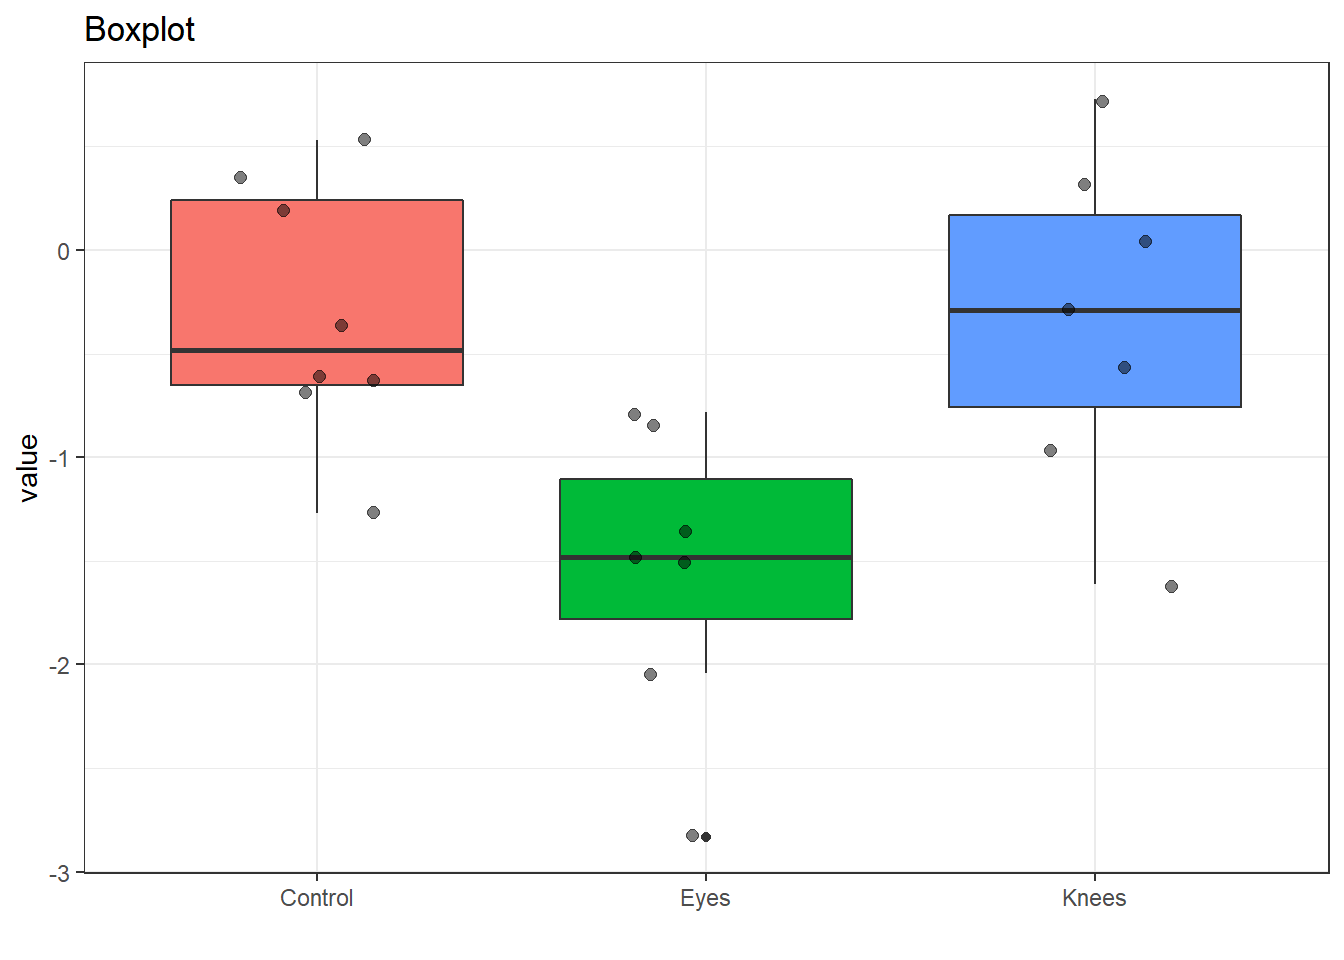
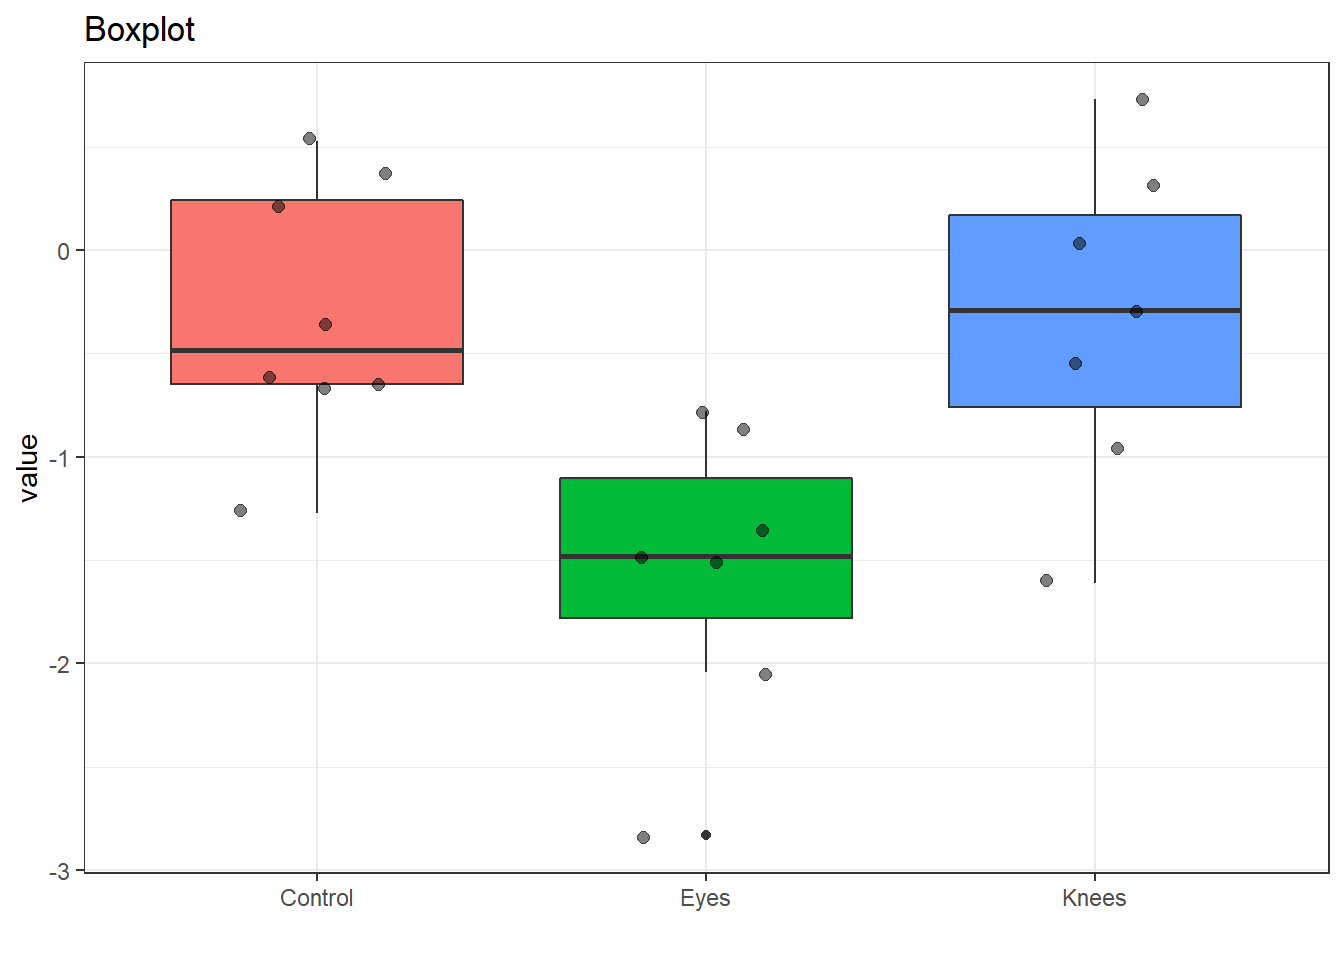
resources page v1

diff --git a/docs/helpful_links.html b/docs/helpful_links.html
@@ -7,7 +7,7 @@
 <meta name="viewport" content="width=device-width, initial-scale=1.0, user-scalable=yes">
 
 
-<title>Ryan Keeney - About</title>
+<title>Ryan Keeney - Resources and Links</title>
 <style>
 code{white-space: pre-wrap;}
 span.smallcaps{font-variant: small-caps;}
@@ -33,7 +33,6 @@ ul.task-list li input[type="checkbox"] {
 <script src="site_libs/quarto-html/quarto.js"></script>
 <script src="site_libs/quarto-html/popper.min.js"></script>
 <script src="site_libs/quarto-html/tippy.umd.min.js"></script>
-<script src="site_libs/quarto-html/anchor.min.js"></script>
 <link href="site_libs/quarto-html/tippy.css" rel="stylesheet">
 <link href="site_libs/quarto-html/quarto-syntax-highlighting.css" rel="stylesheet" class="quarto-color-scheme" id="quarto-text-highlighting-styles">
 <link href="site_libs/quarto-html/quarto-syntax-highlighting-dark.css" rel="prefetch" class="quarto-color-scheme quarto-color-alternate" id="quarto-text-highlighting-styles">
@@ -65,13 +64,13 @@ ul.task-list li input[type="checkbox"] {
 <link rel="stylesheet" href="styles.css">
 </head>
 
-<body class="nav-sidebar docked">
+<body class="nav-sidebar docked fullcontent">
 
 <div id="quarto-search-results"></div>
   <header id="quarto-header" class="headroom fixed-top">
   <nav class="quarto-secondary-nav" data-bs-toggle="collapse" data-bs-target="#quarto-sidebar" aria-controls="quarto-sidebar" aria-expanded="false" aria-label="Toggle sidebar navigation" onclick="if (window.quartoToggleHeadroom) { window.quartoToggleHeadroom(); }">
     <div class="container-fluid d-flex justify-content-between">
-      <h1 class="quarto-secondary-nav-title">About</h1>
+      <h1 class="quarto-secondary-nav-title">Resources and Links</h1>
       <button type="button" class="quarto-btn-toggle btn" aria-label="Show secondary navigation">
         <i class="bi bi-chevron-right"></i>
       </button>
@@ -100,6 +99,11 @@ ul.task-list li input[type="checkbox"] {
         <li class="sidebar-item">
   <div class="sidebar-item-container"> 
   <a href="./index.html" class="sidebar-item-text sidebar-link">About</a>
+  </div>
+</li>
+        <li class="sidebar-item">
+  <div class="sidebar-item-container"> 
+  <a href="./helpful_links.html" class="sidebar-item-text sidebar-link active">Resources and Links</a>
   </div>
 </li>
         <li class="sidebar-item sidebar-item-section">
@@ -162,33 +166,86 @@ ul.task-list li input[type="checkbox"] {
     </div>
 </nav>
 <!-- margin-sidebar -->
-    <div id="quarto-margin-sidebar" class="sidebar margin-sidebar">
-        
-    </div>
+    
 <!-- main -->
-<main class="content" id="quarto-document-content">
-
-<header id="title-block-header" class="quarto-title-block default">
+<div class="quarto-about-solana column-body">
+  <div class="about-entity">
+    <div class="entity-contents">
+      <header id="title-block-header" class="quarto-title-block default">
 <div class="quarto-title">
-<h1 class="title d-none d-lg-block">About</h1>
+<h1 class="title d-none d-lg-block">Resources and Links</h1>
 </div>
-
-
-
 <div class="quarto-title-meta">
-
-    
-    
   </div>
-  
+</header> <div class="about-links">
+  <a href="https://www.linkedin.com/in/ryan-brent-keeney/" class="about-link">
+     <span class="about-link-text">LinkedIn</span>
+  </a>
+  <a href="https://twitter.com/rbkeeney" class="about-link">
+     <span class="about-link-text">Twitter</span>
+  </a>
+  <a href="https://github.com/rbkeeney1" class="about-link">
+     <span class="about-link-text">GitHub</span>
+  </a>
+  <a href="mailto:keeney.ryan@gmail.com" class="about-link">
+     <span class="about-link-text">Email</span>
+  </a>
+</div>
+      <div class="about-contents"><main class="content" id="quarto-document-content">
+<div id="hero-heading">
+<p>If you would like to make a suggestion, please contact me through one of the links above.</p>
+</div>
+<section id="data-science-resources" class="level2">
+<h2 data-anchor-id="data-science-resources">Data Science Resources</h2>
+<p><a href="https://www.statlearning.com/">An Introduction to Statistical Learning</a></p>
+<p><a href="https://hastie.su.domains/Papers/ESLII.pdf">The Elements of Statistical Learning</a></p>
+<p><a href="https://cs.nyu.edu/~mohri/mlbook/">Foundations of Machine Learning</a></p>
+</section>
+<section id="r-resources" class="level2">
+<h2 data-anchor-id="r-resources">R Resources</h2>
+<p><a href="http://www.cookbook-r.com/">R cookbook</a></p>
+<p><a href="https://r4ds.had.co.nz/">R for Data Science</a></p>
+<p><a href="https://mastering-shiny.org/index.html">Mastering Shiny</a></p>
+</section>
+<section id="python-resources" class="level2">
+<h2 data-anchor-id="python-resources">Python Resources</h2>
+<p><a href="https://jakevdp.github.io/WhirlwindTourOfPython/">A Whirlwind Tour of Python, by Jake VanderPlas</a> A solid introduction to Python, assuming you are already familiar with another programming language.</p>
+<p><a href="https://jakevdp.github.io/PythonDataScienceHandbook/">Python Data Science Handbook</a></p>
+<p><a href="https://pythex.org/">Pythex | In-browser regex tester</a></p>
+</section>
+<section id="data-visualization-resources" class="level2">
+<h2 data-anchor-id="data-visualization-resources">Data Visualization Resources</h2>
+<p><a href="https://www.data-to-viz.com/">From Data to Viz</a>. A fantastic guide to all types of plots by Yan Holtz and Conor Healy. Also check out their <a href="https://www.dataviz-inspiration.com/">Dataviz Inspiration</a> page.</p>
+<p><a href="https://bbc.github.io/rcookbook/#how_to_create_bbc_style_graphics">BBC Visual and Data Journalism cookbook for R graphics</a></p>
+<p><a href="https://cedricscherer.netlify.app/top/dataviz/">Cedric Scherer’s Data Visualization &amp; Information Design</a></p>
+</section>
+<section id="data-engineering-resources" class="level2">
+<h2 data-anchor-id="data-engineering-resources">Data Engineering Resources</h2>
+<p><a href="https://www.charlesbordet.com/en/guide-shiny-aws/#">The Ultimate Guide to Deploying a Shiny App on AWS, by Charles Bordet</a>. I personally used the guide to launch my own EC2 servers.</p>
+<p><a href="https://ohshitgit.com/">Oh Shit, Git!?!</a> You’ve messed up. Bad. This resource might just save you.</p>
+<p><a href="https://www.khanacademy.org/computing/computer-programming/sql">Intro to SQL: Querying and managing data</a></p>
+</section>
+<section id="math-resources" class="level2">
+<h2 data-anchor-id="math-resources">Math Resources</h2>
+<p><a href="https://statbook.gatech.edu/statb4.pdf">Engineering Biostatistics: An Introduction Using MATLAB and WinBUGS by Brani Vidakovic</a>. Excellent resources for Bayesian statistics, MATLAB and WinBugs.</p>
+<p><a href="https://www.wolframalpha.com/">Wolframe|Alpha</a>. Powerful in-browser computational aid.</p>
+<p><a href="https://www.symbolab.com/">Symbolab</a>. Another powerful in-browser computational aid. Usually provides steps to solve problems at no extra cost.</p>
+<p><a href="https://octave-online.net/">Octave</a>. Open source software to run those pesky .m scripts (Free alternative to MatLab)</p>
+<p><a href="https://www.mrc-bsu.cam.ac.uk/software/bugs/openbugs/">OpenBUGS</a>. Free Bayesian software. I prefer to use R or Python.</p>
+<p><a href="https://calculusmadeeasy.org/">Calculus Made Easy by S. P. Thompson</a></p>
+<p><a href="https://mml-book.github.io/book/mml-book.pdf">Mathematics for Machine Learning</a></p>
+<p><a href="The%20Matrix%20Cookbook">The Matrix Cookbook</a></p>
+<p><a href="https://web.stanford.edu/~boyd/vmls/vmls.pdf">Introduction to Applied Linear Algebra</a></p>
 
-</header>
 
-<p>About this site</p>
-
-
-
-</main> <!-- /main -->
+</section>
+</main></div>
+    </div>
+    <img src="headshot.png" class="about-image
+  rounded " style="width: 15em;">
+  </div>
+</div>
+ <!-- /main -->
 <script id="quarto-html-after-body" type="application/javascript">
 window.document.addEventListener("DOMContentLoaded", function (event) {
   const toggleBodyColorMode = (bsSheetEl) => {
@@ -322,13 +379,6 @@ window.document.addEventListener("DOMContentLoaded", function (event) {
   if (hasAlternateSentinel()) {
     toggleColorMode(true);
   } 
-  const icon = "";
-  const anchorJS = new window.AnchorJS();
-  anchorJS.options = {
-    placement: 'right',
-    icon: icon
-  };
-  anchorJS.add('.anchored');
   const clipboard = new window.ClipboardJS('.code-copy-button', {
     target: function(trigger) {
       return trigger.previousElementSibling;

diff --git a/docs/posts/anova_introduction.html b/docs/posts/anova_introduction.html
@@ -167,6 +167,11 @@ code span.wa { color: #60a0b0; font-weight: bold; font-style: italic; } /* Warni
   <a href="../index.html" class="sidebar-item-text sidebar-link">About</a>
   </div>
 </li>
+        <li class="sidebar-item">
+  <div class="sidebar-item-container"> 
+  <a href="../helpful_links.html" class="sidebar-item-text sidebar-link">Resources and Links</a>
+  </div>
+</li>
         <li class="sidebar-item sidebar-item-section">
       <div class="sidebar-item-container"> 
             <a class="sidebar-item-text sidebar-link text-start" data-bs-toggle="collapse" data-bs-target="#quarto-sidebar-section-1" aria-expanded="true">NLP</a>
@@ -328,11 +333,11 @@ code span.wa { color: #60a0b0; font-weight: bold; font-style: italic; } /* Warni
 <p>Running an ANOVA data in R results in the following output. You can read the “treatments” as the “between” variability and the “error” as the “within” variability - the ratio between the two are then compared in the F-test.</p>
 <table class="table">
 <colgroup>
-<col style="width: 15%">
-<col style="width: 12%">
-<col style="width: 19%">
 <col style="width: 17%">
-<col style="width: 17%">
+<col style="width: 7%">
+<col style="width: 22%">
+<col style="width: 20%">
+<col style="width: 20%">
 <col style="width: 12%">
 </colgroup>
 <thead>
@@ -375,12 +380,12 @@ code span.wa { color: #60a0b0; font-weight: bold; font-style: italic; } /* Warni
 <p>For reference, here is the same table with the parameters named.</p>
 <table class="table">
 <colgroup>
-<col style="width: 13%">
-<col style="width: 11%">
-<col style="width: 17%">
-<col style="width: 22%">
+<col style="width: 14%">
+<col style="width: 8%">
 <col style="width: 18%">
-<col style="width: 11%">
+<col style="width: 23%">
+<col style="width: 19%">
+<col style="width: 10%">
 </colgroup>
 <thead>
 <tr class="header">
@@ -486,11 +491,11 @@ code span.wa { color: #60a0b0; font-weight: bold; font-style: italic; } /* Warni
 <pre><code># A tibble: 5 x 2
   name    value
   &lt;chr&gt;   &lt;dbl&gt;
-1 Control  0.53
-2 Control -0.37
-3 Control  0.2 
-4 Knees    0.73
-5 Eyes    -0.78</code></pre>
+1 Control  0.36
+2 Control -0.68
+3 Control  0.53
+4 Knees   -0.56
+5 Eyes    -1.48</code></pre>
 </div>
 </div>
 <p>With this done, we can quickly check the means.</p>

diff --git a/docs/posts/ISOMAP_faces.html b/docs/posts/ISOMAP_faces.html
@@ -166,6 +166,11 @@ code span.wa { color: #60a0b0; font-weight: bold; font-style: italic; } /* Warni
   <a href="../index.html" class="sidebar-item-text sidebar-link">About</a>
   </div>
 </li>
+        <li class="sidebar-item">
+  <div class="sidebar-item-container"> 
+  <a href="../helpful_links.html" class="sidebar-item-text sidebar-link">Resources and Links</a>
+  </div>
+</li>
         <li class="sidebar-item sidebar-item-section">
       <div class="sidebar-item-container"> 
             <a class="sidebar-item-text sidebar-link text-start" data-bs-toggle="collapse" data-bs-target="#quarto-sidebar-section-1" aria-expanded="true">NLP</a>

diff --git a/docs/posts/PCA_eu_food.html b/docs/posts/PCA_eu_food.html
@@ -169,6 +169,11 @@ code span.wa { color: #60a0b0; font-weight: bold; font-style: italic; } /* Warni
   <a href="../index.html" class="sidebar-item-text sidebar-link">About</a>
   </div>
 </li>
+        <li class="sidebar-item">
+  <div class="sidebar-item-container"> 
+  <a href="../helpful_links.html" class="sidebar-item-text sidebar-link">Resources and Links</a>
+  </div>
+</li>
         <li class="sidebar-item sidebar-item-section">
       <div class="sidebar-item-container"> 
             <a class="sidebar-item-text sidebar-link text-start" data-bs-toggle="collapse" data-bs-target="#quarto-sidebar-section-1" aria-expanded="true">NLP</a>

diff --git a/docs/posts/avatar_vader.html b/docs/posts/avatar_vader.html
@@ -166,6 +166,11 @@ code span.wa { color: #60a0b0; font-weight: bold; font-style: italic; } /* Warni
   <a href="../index.html" class="sidebar-item-text sidebar-link">About</a>
   </div>
 </li>
+        <li class="sidebar-item">
+  <div class="sidebar-item-container"> 
+  <a href="../helpful_links.html" class="sidebar-item-text sidebar-link">Resources and Links</a>
+  </div>
+</li>
         <li class="sidebar-item sidebar-item-section">
       <div class="sidebar-item-container"> 
             <a class="sidebar-item-text sidebar-link text-start" data-bs-toggle="collapse" data-bs-target="#quarto-sidebar-section-1" aria-expanded="true">NLP</a>

diff --git a/docs/index.html b/docs/index.html
@@ -101,6 +101,11 @@ ul.task-list li input[type="checkbox"] {
   <a href="./index.html" class="sidebar-item-text sidebar-link active">About</a>
   </div>
 </li>
+        <li class="sidebar-item">
+  <div class="sidebar-item-container"> 
+  <a href="./helpful_links.html" class="sidebar-item-text sidebar-link">Resources and Links</a>
+  </div>
+</li>
         <li class="sidebar-item sidebar-item-section">
       <div class="sidebar-item-container"> 
             <a class="sidebar-item-text sidebar-link text-start" data-bs-toggle="collapse" data-bs-target="#quarto-sidebar-section-1" aria-expanded="true">NLP</a>
